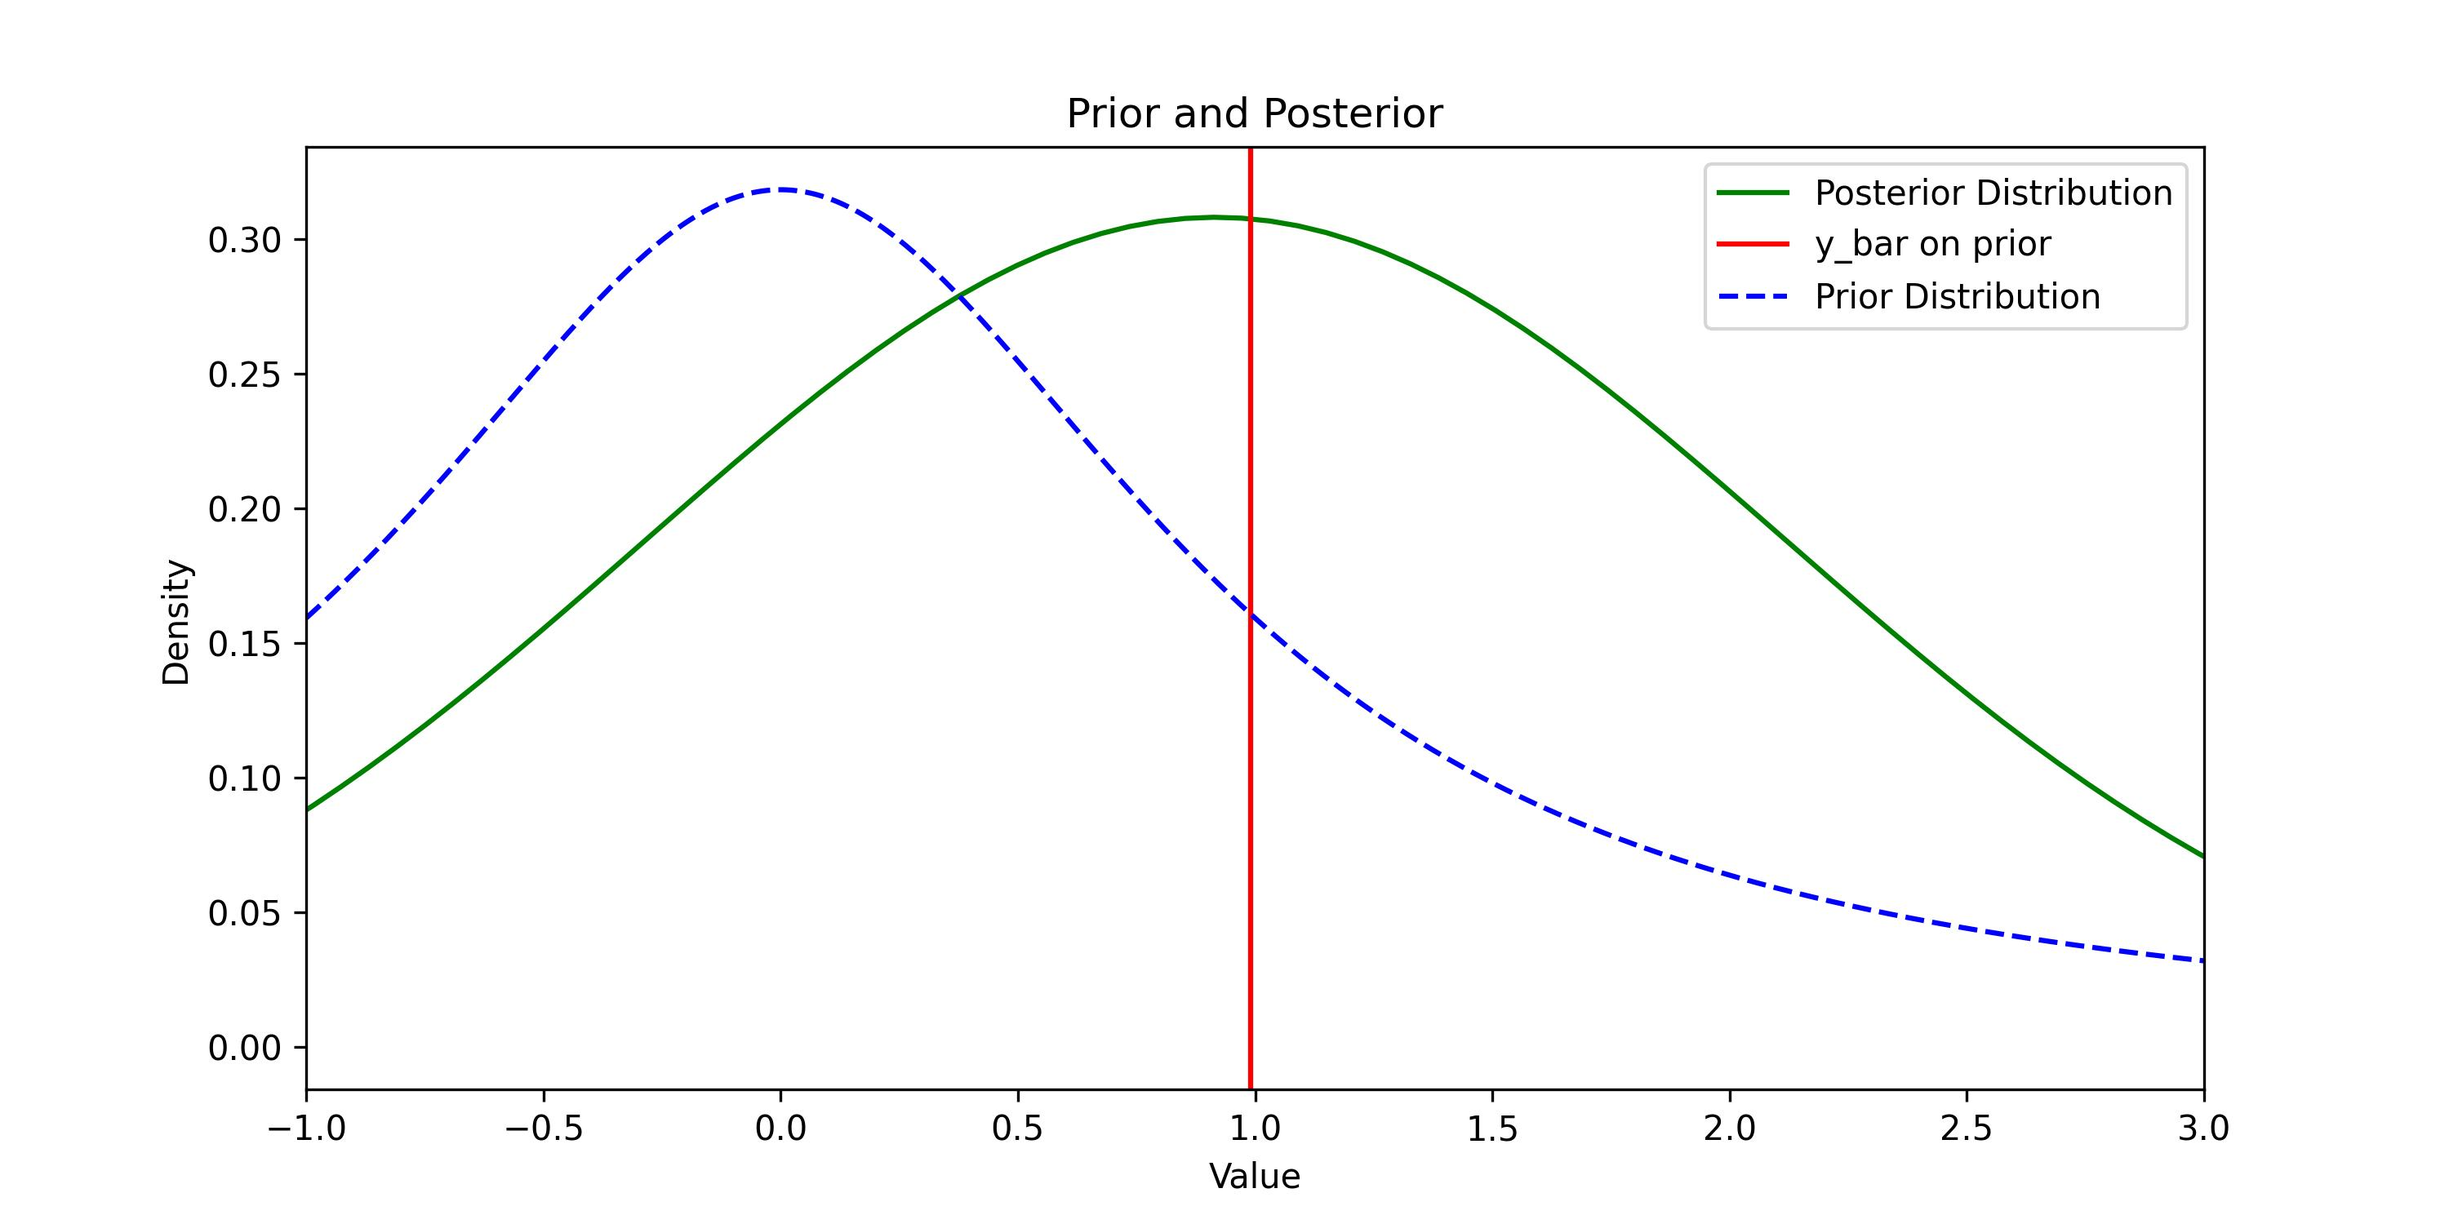
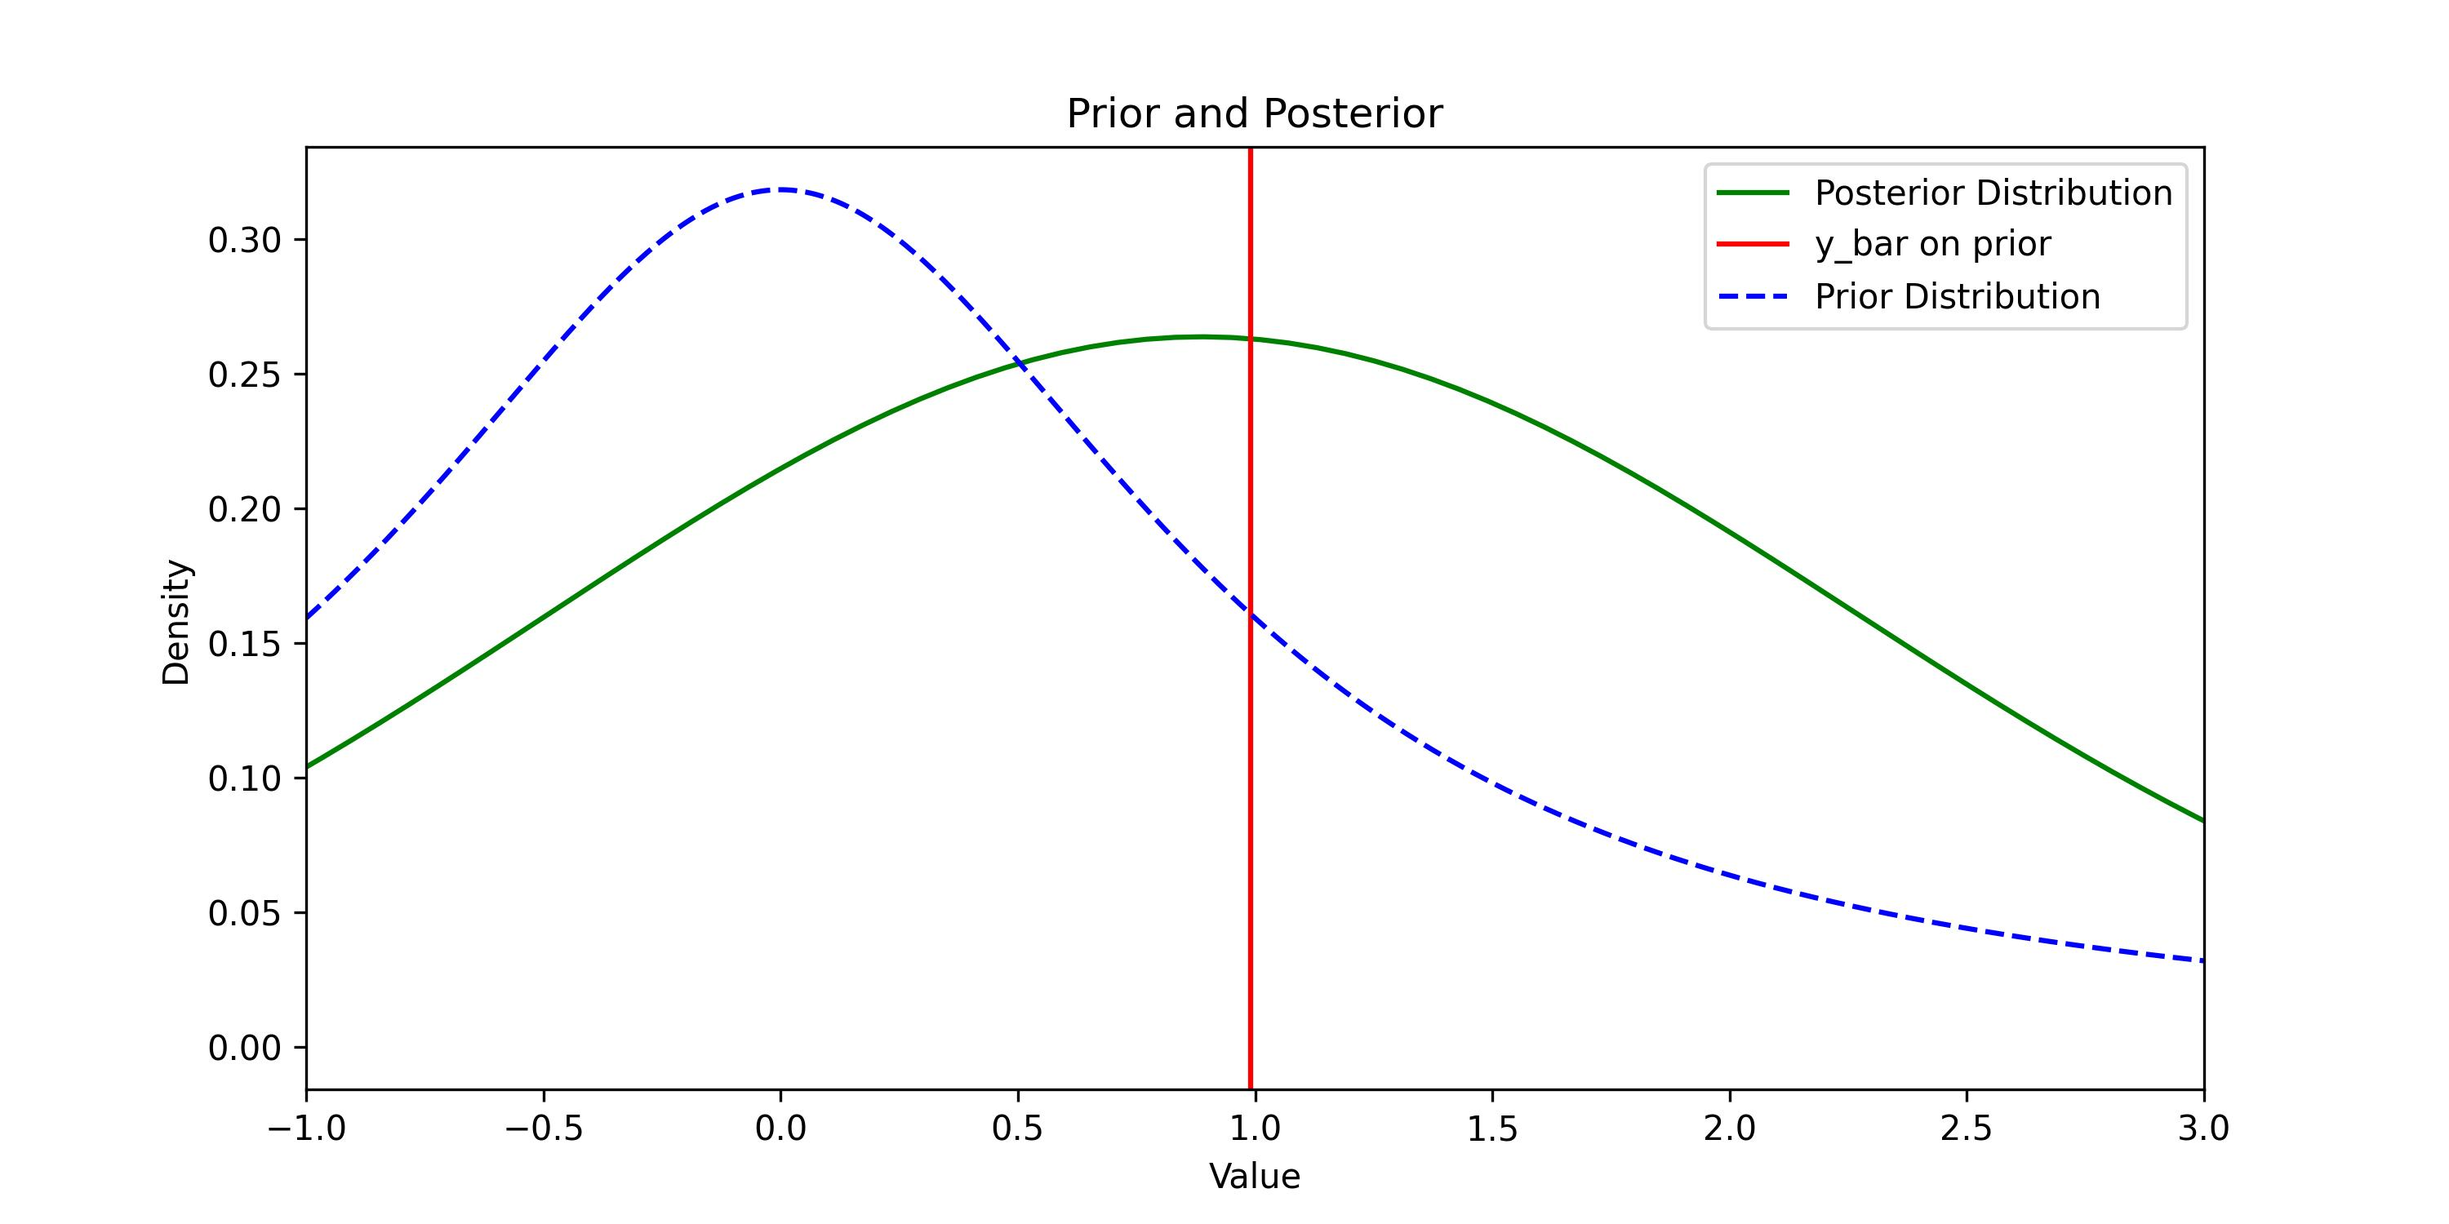
Refactor

diff --git a/examples/compare_samplers.py b/examples/compare_samplers.py
@@ -1,0 +1,131 @@
+"""
+Example 3 — Compare Random Walk Metropolis-Hastings vs Hamiltonian Monte Carlo.
+
+Runs both samplers on the same two targets (Normal mean, bimodal mixture),
+timing each run and reporting acceptance rate, ESS, ESS/sec, and R-hat
+side by side, plus overlaid trace and posterior-density plots.
+
+Run:
+    python -m examples.compare_samplers
+"""
+import sys
+import os
+import time
+sys.path.insert(0, os.path.join(os.path.dirname(__file__), ".."))
+
+import numpy as np
+import matplotlib.pyplot as plt
+
+from src.samplers import metropolis_hastings, hamiltonian_monte_carlo
+from src.targets import (
+    make_normal_mean_target, make_normal_mean_grad, cauchy_prior_pdf,
+    bimodal_log_target, grad_bimodal_log_target, bimodal_true_pdf,
+)
+from src.diagnostics import effective_sample_size, gelman_rubin
+from src.plots import OUTPUT_DIR
+
+
+def run_timed(fn, **kwargs):
+    start = time.perf_counter()
+    result = fn(**kwargs)
+    result["runtime_sec"] = time.perf_counter() - start
+    return result
+
+
+def summarize(name, result):
+    chains = result["samples"]
+    ess = np.array([effective_sample_size(chains[i]) for i in range(chains.shape[0])])
+    r_hat = gelman_rubin(chains) if chains.shape[0] >= 2 else float("nan")
+    runtime = result["runtime_sec"]
+    return {
+        "name": name,
+        "chains": chains,
+        "accept_rate": result["acceptance_rates"].mean(),
+        "ess_mean": ess.mean(),
+        "ess_per_sec": ess.mean() / runtime,
+        "r_hat": r_hat,
+        "runtime_sec": runtime,
+    }
+
+
+def print_table(rows):
+    header = f"{'Sampler':<12} {'Accept':>8} {'ESS':>10} {'ESS/sec':>10} {'R-hat':>8} {'Time(s)':>9}"
+    print(header)
+    print("-" * len(header))
+    for r in rows:
+        print(f"{r['name']:<12} {r['accept_rate']:>8.3f} {r['ess_mean']:>10.1f} "
+              f"{r['ess_per_sec']:>10.1f} {r['r_hat']:>8.4f} {r['runtime_sec']:>9.3f}")
+
+
+def plot_comparison(rows, true_pdf, x_range, title_prefix, filename_prefix):
+    fig, axes = plt.subplots(1, 2, figsize=(14, 4.5))
+
+    # Overlaid trace (chain 1) -------------------------------------------------
+    ax = axes[0]
+    for r in rows:
+        ax.plot(r["chains"][0], lw=0.6, alpha=0.8, label=r["name"])
+    ax.set(xlabel="Iteration (post burn-in, thinned)", ylabel="Value",
+           title=f"{title_prefix} — trace (chain 1)")
+    ax.legend()
+
+    # Overlaid posterior density -----------------------------------------------
+    import pandas as pd
+    ax = axes[1]
+    xs = np.linspace(*x_range, 400)
+    if true_pdf is not None:
+        ax.plot(xs, true_pdf(xs), color="black", lw=1.5, linestyle=":", label="True/prior ref.")
+    for r in rows:
+        pd.Series(r["chains"].flatten()).plot.density(ax=ax, lw=2, alpha=0.85, label=r["name"])
+    ax.set(xlabel="Value", ylabel="Density", xlim=x_range,
+           title=f"{title_prefix} — posterior density")
+    ax.legend()
+
+    fig.tight_layout()
+    path = os.path.join(OUTPUT_DIR, f"{filename_prefix}.png")
+    fig.savefig(path, dpi=150, bbox_inches="tight")
+    print(f"Saved: {path}")
+    plt.close(fig)
+
+
+def compare_normal_mean():
+    y = np.array([1.2, 1.4, -0.5, 0.3, 0.9, 2.3, 1.0, 0.1, 1.3, 1.9])
+    y_bar, n = y.mean(), len(y)
+    log_target = make_normal_mean_target(n, y_bar)
+    grad_target = make_normal_mean_grad(n, y_bar)
+
+    common = dict(init=30.0, n_iter=5_000, burn_in=500, thin=1, n_chains=4, seed=42)
+
+    rwm = run_timed(metropolis_hastings, log_target=log_target, cand_std=y.std(), **common)
+    hmc = run_timed(hamiltonian_monte_carlo, log_target=log_target, grad_log_target=grad_target,
+                    step_size=0.05, n_leapfrog=20, **common)
+
+    rows = [summarize("RWM", rwm), summarize("HMC", hmc)]
+    print("\n=== Normal mean model ===")
+    print_table(rows)
+    plot_comparison(rows, cauchy_prior_pdf, (-1, 3), "Normal Mean", "compare_normal_mean")
+    return rows
+
+
+def compare_bimodal():
+    common = dict(init=0.0, n_iter=10_000, burn_in=1_000, thin=2, n_chains=4, seed=42)
+
+    rwm = run_timed(metropolis_hastings, log_target=bimodal_log_target, cand_std=3.0, **common)
+    hmc = run_timed(hamiltonian_monte_carlo, log_target=bimodal_log_target,
+                    grad_log_target=grad_bimodal_log_target,
+                    step_size=0.1, n_leapfrog=20, **common)
+
+    rows = [summarize("RWM", rwm), summarize("HMC", hmc)]
+    print("\n=== Bimodal mixture ===")
+    print_table(rows)
+    plot_comparison(rows, bimodal_true_pdf, (-5, 5), "Bimodal Mixture", "compare_bimodal")
+    return rows
+
+
+def main():
+    compare_normal_mean()
+    compare_bimodal()
+    print("\nAll comparison plots saved to outputs/")
+
+
+if __name__ == "__main__":
+    main()

diff --git a/main.py b/main.py
@@ -1,63 +1,19 @@
-import random
+"""
+Original entry point for the Random Walk Metropolis-Hastings demo.
+
+The MCMC engine and target definitions now live in src/ (see examples/normal_mean.py
+for the full multi-chain workflow with diagnostics); this script keeps its original
+plotting style and output paths but delegates sampling to the shared library instead
+of carrying its own duplicate implementation.
+"""
 import numpy as np
 import matplotlib.pyplot as plt
 import pandas as pd
 from scipy.stats import t
 
+from src.samplers import metropolis_hastings
+from src.targets import make_normal_mean_target
 
-def log_pi_fun(mu, n, y_bar):
-    """
-    For computational reasons we take the log-posterior of the target function g, log(g(mu)), as follows
-    :param y_hat:
-    :param n:
-    :param mu:
-    :return:
-    """
-    log_g_mu = n*(y_bar*mu - .5*mu**2)-np.log(1+mu**2)
-    return log_g_mu
-
-def metropolis_hastings(n, y_bar, n_iter, mu_init, cand_std):
-    """
-    Metropolis hastings
-    :param n: sample size
-    :param y_bar: the sample mean of y the data.
-    :param n_iter: how many iterations
-    :param mu_init: initial valur for mu
-    :param cand_std: std deviation for the candidate generating normal distribution
-    :return: 
-    """
-    # Selecting an initial values and initializing the Random walk Metropolis sampling
-    mu_out = [] #numeric vector of mu accepted values
-    accept = 0 #how many times we accepted
-    mu_now = mu_init #updating our value for mu, intitalized as the mu_init, our param
-    lg_now = log_pi_fun(mu_now, n, y_bar) #evaluation of lg function
-
-    # MC iterations under accepting ratio
-    for i in range(0, n_iter):
-        mu_cand = np.random.normal(mu_now, cand_std, 1) #draw a candidate from the proposal distribution, normal with mean mu_now and std =cand_std
-        #by last candidate assumption, a symmetric one, we now turn into a Metropolis algorithm 
-        lg_cand = log_pi_fun(mu_cand, n, y_bar) #the numerator of the acceptance ration, in a logarithm scale
-
-        # Acceptance ratio
-        lalpha = lg_cand - lg_now #this is the log ratio, for posterior on the candidate minus the current value lg_now
-        alpha = np.exp(lalpha[0]) #turned it back into a non log-scale
-
-        u = random.random()
-        # Acceptance condition to update the candidate
-        if u<alpha: #that gives us an event that happens with probability alpha
-            mu_now_ = mu_cand
-            try:
-                mu_now = mu_now_[0]
-            except:
-                mu_now = mu_now_
-
-            accept+=1
-            lg_now = lg_cand #updated the lg_now too as the one evaluated in the candidate
-
-        mu_out.append(mu_now)
-    
-    #returning the mean estimated together with acceptance ratio
-    return [mu_out, accept/n_iter]
 
 def trace_plot(samples, description):
     """
@@ -130,6 +86,7 @@ def density_estimate_plot(samples, description, x_range, prior_mean):
     plt.savefig(filename, format="jpg", dpi=300)
     plt.show()
 
+
 # set up
 def main(y, mu, std):
     """
@@ -139,20 +96,23 @@ def main(y, mu, std):
     :param std:
     :return:
     """
-    random.seed(42)
-    ybar = np.mean(y)
+    y = np.asarray(y, dtype=float)
+    ybar = y.mean()
     n = len(y)
 
-    posterior_samples = metropolis_hastings(n, ybar, 1000, mu, std)
-    samples = [arr for arr in posterior_samples[0]]
+    log_target = make_normal_mean_target(n, ybar)
+    result = metropolis_hastings(log_target, init=mu, n_iter=1000, cand_std=std, seed=42)
+    samples = result["samples"][0]
+    accept_rate = result["acceptance_rates"][0]
 
-    trace_plot(samples, f"Mean {ybar} and Std {std} -- Acceptance ratio {posterior_samples[-1]}")
-    density_estimate_plot(samples, "Density estimate on posterior distribution ", (-1,3), ybar)
+    trace_plot(samples, f"Mean {ybar} and Std {std} -- Acceptance ratio {accept_rate}")
+    density_estimate_plot(samples, "Density estimate on posterior distribution ", (-1, 3), ybar)
+
 
 if __name__ == '__main__':
     # Example
     y = [1.2, 1.4, -.5, .3, .9, 2.3, 1, .1, 1.3, 1.9]
     std = np.std(y)
-    
-    mu = 30 # crazy intial value to test how many iterations are needed to get close to the true mean
+
+    mu = 30  # crazy intial value to test how many iterations are needed to get close to the true mean
     main(y, mu, std)

diff --git a/src/samplers/hmc.py b/src/samplers/hmc.py
@@ -1,5 +1,12 @@
 import numpy as np
 
+"""
+Hamiltonian Monte Carlo (HMC) sampler.
+Slources:
+https://bayesianbrad.github.io/posts/2019_hmc.html
+https://bjlkeng.io/posts/hamiltonian-monte-carlo/
+https://faculty.washington.edu/yenchic/19A_stat535/Lec9_HMC.pdf
+"""
 
 def hamiltonian_monte_carlo(log_target, grad_log_target, init, n_iter, step_size,
                              n_leapfrog, burn_in=0, thin=1, n_chains=1, seed=None):
@@ -60,17 +67,22 @@ def hamiltonian_monte_carlo(log_target, grad_log_target, init, n_iter, step_size
         n_accept = 0
 
         for i in range(n_iter):
+            # Jitter the step size (+/-20%) each iteration so a fixed trajectory
+            # length can't resonate with a near-quadratic target's period and
+            # trap the chain in a deterministic back-and-forth swing (Neal, 2011).
+            eps = step_size * rng.uniform(0.8, 1.2)
+
             p0 = rng.normal()
             q = current
-            p = p0 + 0.5 * step_size * grad_log_target(q)
+            p = p0 + 0.5 * eps * grad_log_target(q)
 
             for step in range(n_leapfrog):
-                q = q + step_size * p
+                q = q + eps * p
                 if step != n_leapfrog - 1:
-                    p = p + step_size * grad_log_target(q)
+                    p = p + eps * grad_log_target(q)
 
             log_q = log_target(q)
-            p = p + 0.5 * step_size * grad_log_target(q)
+            p = p + 0.5 * eps * grad_log_target(q)
 
             if np.isfinite(log_q) and np.isfinite(p):
                 log_alpha = (log_q - 0.5 * p ** 2) - (log_current - 0.5 * p0 ** 2)

diff --git a/README.md b/README.md
@@ -24,18 +24,20 @@ rand_walk_metropolisHasting/
 ├── src/
 │   ├── samplers/
 │   │   ├── random_walk.py  # Generic RWMH — accepts any log_target callable
-│   │   └── hmc.py           # Hamiltonian Monte Carlo (scaffolded, not yet implemented)
-│   ├── targets.py       # Log-posterior factories (Normal mean, bimodal mixture)
+│   │   └── hmc.py           # Hamiltonian Monte Carlo — leapfrog integrator, jittered step size
+│   ├── targets.py       # Log-posterior + gradient factories (Normal mean, bimodal mixture)
 │   ├── diagnostics.py   # ESS, Gelman-Rubin R-hat, autocorrelation
 │   └── plots.py         # Trace, ACF, posterior density, convergence plots
 ├── examples/
-│   ├── normal_mean.py   # Bayesian inference on a normal mean (Cauchy prior)
-│   └── mixture.py       # Bimodal Gaussian mixture — proposal-width study
+│   ├── normal_mean.py       # Bayesian inference on a normal mean (Cauchy prior)
+│   ├── mixture.py           # Bimodal Gaussian mixture — proposal-width study
+│   └── compare_samplers.py  # RWM vs HMC — acceptance, ESS, ESS/sec, R-hat, overlay plots
 ├── notebooks/
 │   └── demo.ipynb       # Step-by-step research walkthrough
 ├── tests/
 │   └── samplers/
-│       └── test_random_walk.py  # Pytest suite (shapes, convergence, diagnostics)
+│       ├── test_random_walk.py  # Pytest suite (shapes, convergence, diagnostics)
+│       └── test_hmc.py           # Same, plus a finite-difference gradient check
 ├── outputs/             # Generated plots (gitignored, directory kept)
 ├── main.py              # Original single-file script (reference)
 └── requirements.txt
@@ -91,6 +93,25 @@ chains = result["samples"]          # shape (n_chains, n_kept)
 rates  = result["acceptance_rates"] # shape (n_chains,)
 ```
 
+HMC has the same call shape, plus a required gradient and its own tuning knobs (`step_size`, `n_leapfrog` instead of `cand_std`):
+
+```python
+from src.samplers import hamiltonian_monte_carlo
+
+result = hamiltonian_monte_carlo(
+    log_target      = my_log_posterior,
+    grad_log_target = my_grad_log_posterior,  # callable: float -> float
+    init            = 0.0,
+    n_iter          = 5_000,
+    step_size       = 0.05,   # leapfrog step size (epsilon)
+    n_leapfrog      = 20,     # leapfrog steps per proposal (L)
+    burn_in         = 500,
+    thin            = 1,
+    n_chains        = 4,
+    seed            = 42,
+)
+```
+
 ---
 
 ## Diagnostics
@@ -124,6 +145,9 @@ python -m examples.normal_mean
 # Example 2 — Bimodal mixture (proposal-width comparison)
 python -m examples.mixture
 
+# Example 3 — RWM vs HMC comparison
+python -m examples.compare_samplers
+
 # Tests
 python -m pytest tests/ -v
 
@@ -154,20 +178,40 @@ All plots are saved to `outputs/`.
 | Narrow (σ = 0.5) | ~0.85 | No — chain gets stuck | > 1.1 |
 | Wide (σ = 3.0) | ~0.35 | Yes | < 1.05 |
 
+### RWM vs HMC (`examples/compare_samplers.py`)
+
+| Model | Sampler | Accept | ESS (per 4500 kept) | ESS/sec | R-hat |
+|---|---|---|---|---|---|
+| Normal mean | RWM | ~0.43 | ~985 | ~29,000 | ~1.00 |
+| Normal mean | HMC | ~0.999 | ~4500 (≈ i.i.d.) | ~30,000 | ~1.00 |
+| Bimodal mixture | RWM (σ=3.0) | ~0.41 | ~1080 | ~8,800 | ~1.00 |
+| Bimodal mixture | HMC | ~0.999 | ~85 | ~50 | ~1.01 |
+
+On the near-quadratic normal-mean posterior, gradient information lets HMC produce
+almost independent draws per iteration. On the bimodal target, a single HMC trajectory
+rarely has enough kinetic energy to cross the low-density valley between modes in one
+leap — it still visits both modes over many iterations (R-hat converges), but with much
+higher autocorrelation and ~30x the wall-clock cost per iteration (`n_leapfrog` gradient
+evaluations vs. one density evaluation for RWM), so its ESS/sec is far lower here. This
+is a known limitation of vanilla fixed-trajectory HMC on multimodal targets — real fixes
+are tempering, NUTS-style adaptive trajectory lengths, or better initialisation.
+
 ---
 
 ## Adding a new target
 
 1. Add a `my_log_target(x: float) -> float` function to `src/targets.py`
 2. Pass it directly to `metropolis_hastings(log_target=my_log_target, ...)`
-3. No other changes needed
+3. If you also want to use it with a gradient-based sampler (HMC), add a matching
+   `grad_my_log_target(x: float) -> float` next to it
+4. No other changes needed
 
 ---
 
 ## Adding a new sampler
 
 Each algorithm lives in its own module under `src/samplers/`, exposed through `src/samplers/__init__.py`.
-To add one (e.g. HMC, which is scaffolded in `src/samplers/hmc.py` but not yet implemented):
+`src/samplers/hmc.py` is a worked example of adding one alongside the original RWM sampler.
 
 1. Write `src/samplers/<name>.py` with a function matching the existing signature style:
    accepts `log_target` (plus whatever the algorithm needs, e.g. `grad_log_target` for HMC),
@@ -176,6 +220,7 @@ To add one (e.g. HMC, which is scaffolded in `src/samplers/hmc.py` but not yet i
    drop-in replacement for `metropolis_hastings` in examples, diagnostics, and plots.
 2. Export it from `src/samplers/__init__.py`.
 3. Add tests under `tests/samplers/test_<name>.py`.
+4. Optionally add it to `examples/compare_samplers.py` for a side-by-side benchmark.
 
 ---
 
